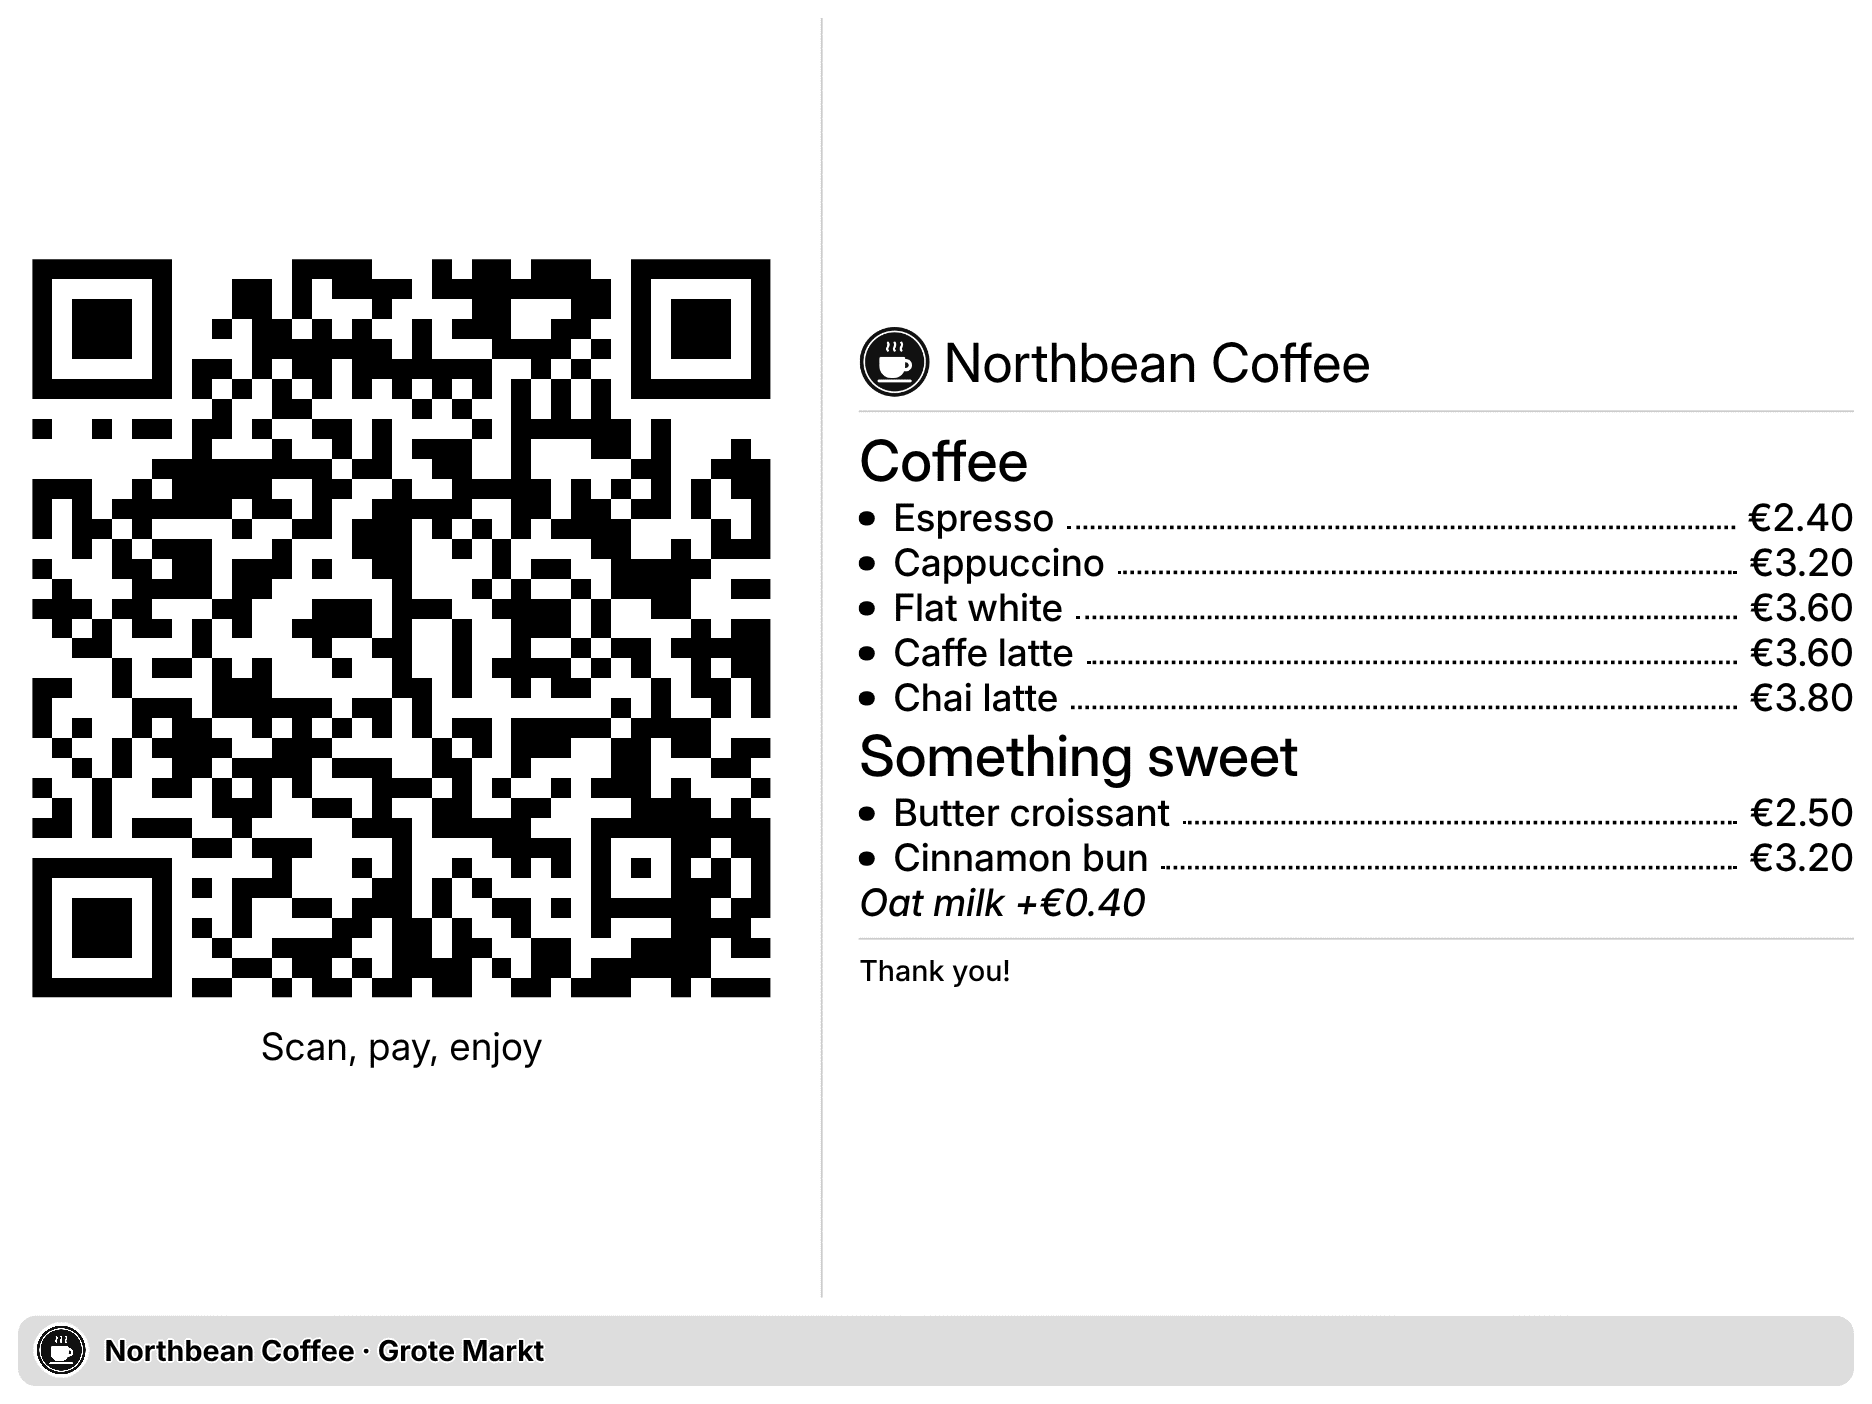
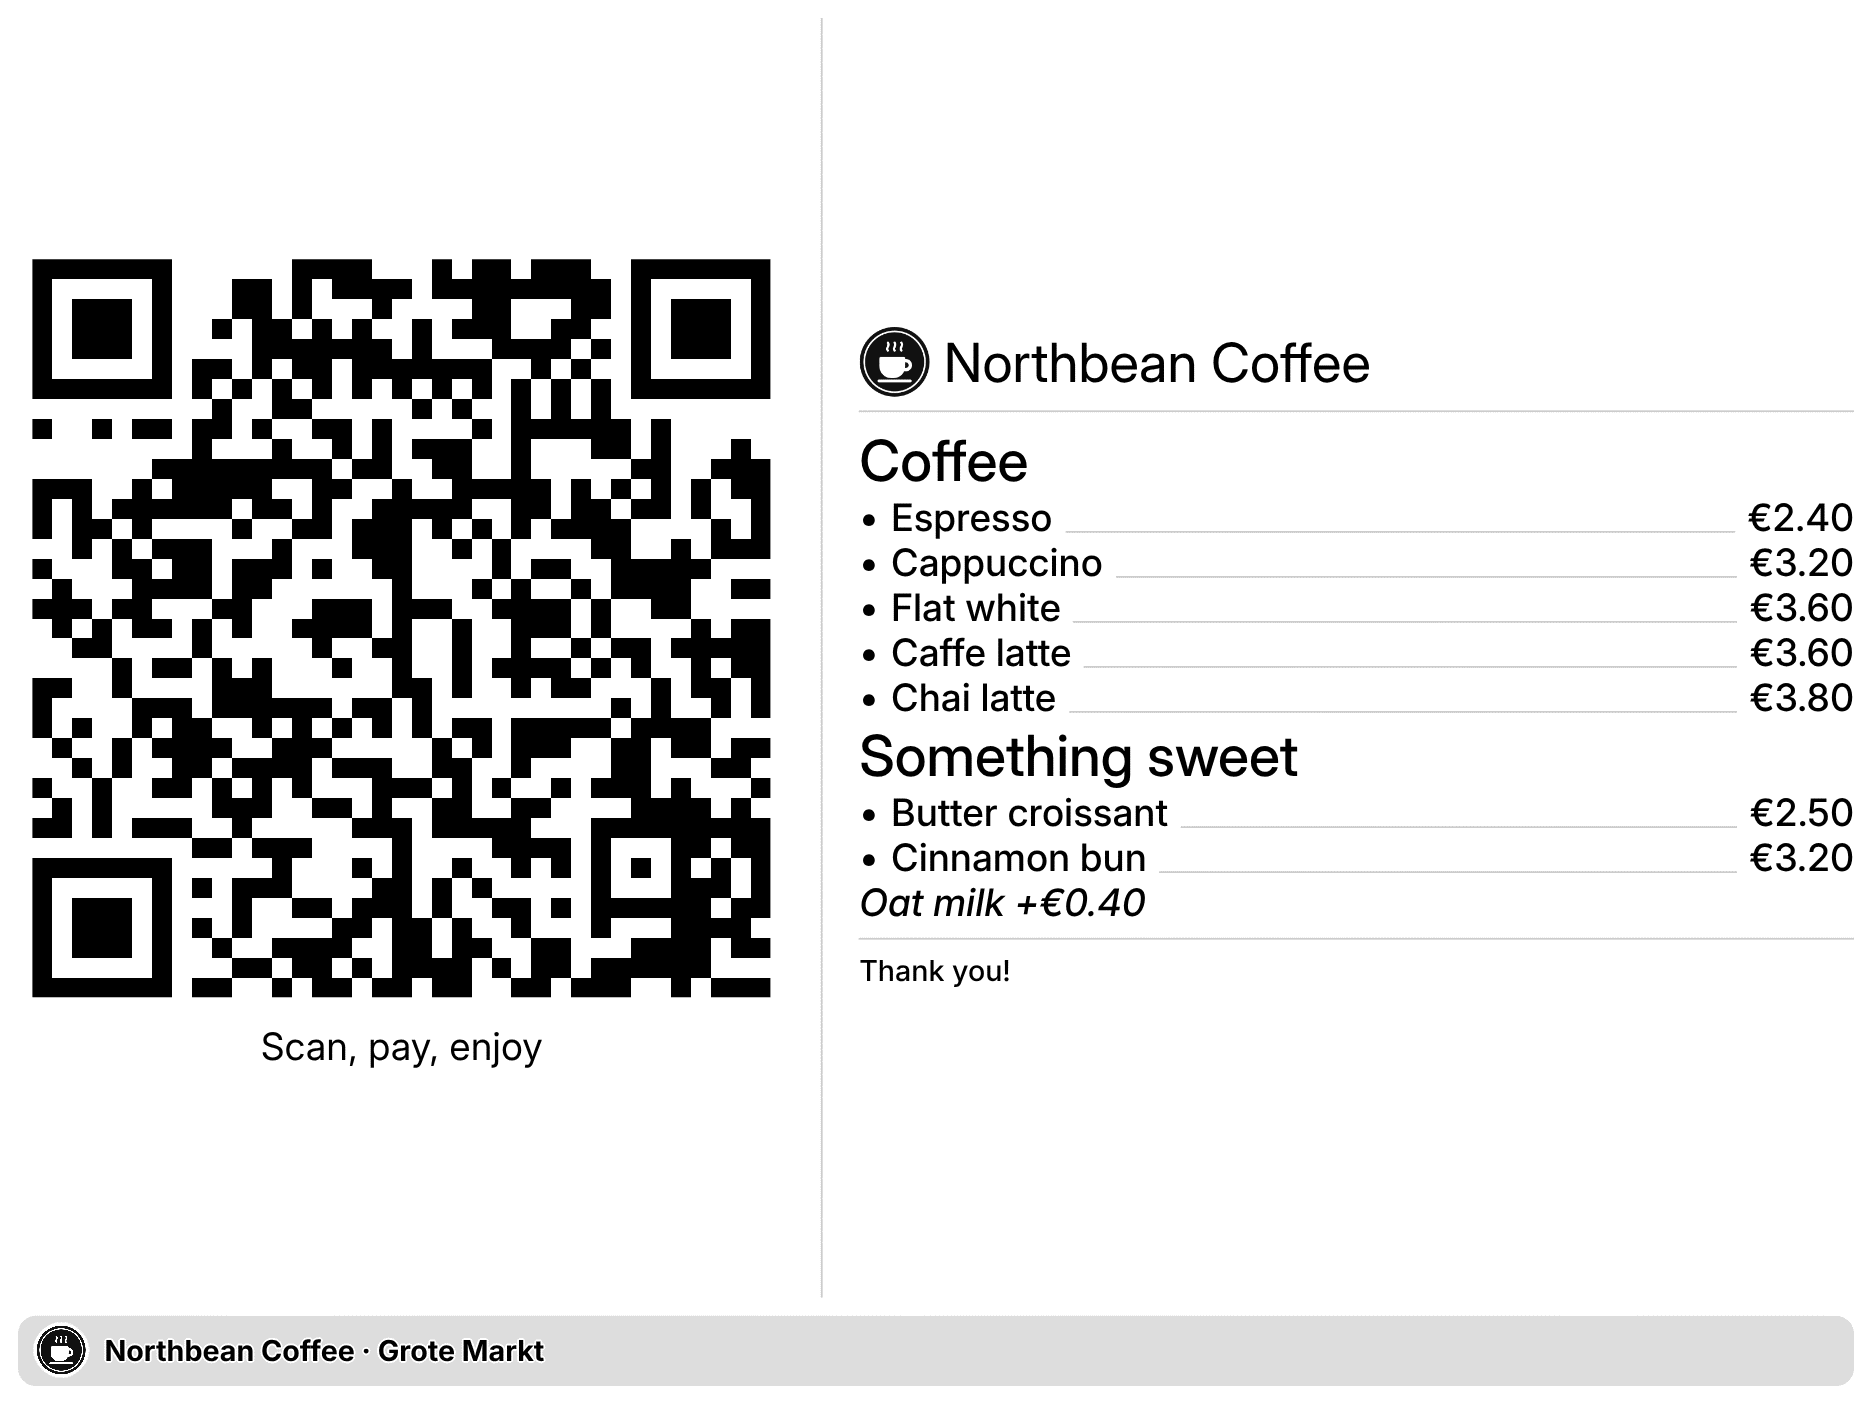
No inline styles: framework classes in the fit script
TRMNL's recipe linter (Chef) flags inline styles. List marks are now a
bullet or number with flex classes, the price leader is a framework
divider, titles step down through the title sizes (then cut with an
ellipsis), and the last block is cut by whole words instead of a CSS
line clamp. Field hint without a bare https://.

Claude-Session: https://claude.ai/code/session_015KWCEBPpm133rR4g2PPK7e

Changed region(s): [[0.4647, 0.3675, 0.9295, 0.5207], [0.4647, 0.5513, 0.9295, 0.6432]]

diff --git a/test/trmnl/plugin.spec.js b/test/trmnl/plugin.spec.js
@@ -38,7 +38,7 @@ async function checkScreen(screen, { content, view, payload }) {
     const cs = getComputedStyle(layout), l = layout.getBoundingClientRect();
     const zoom = l.width / layout.offsetWidth || 1;
     const right = l.right - parseFloat(cs.paddingRight) * zoom;
-    return Array.from(layout.querySelectorAll('.title, .label, [data-qr-body]'))
+    return Array.from(layout.querySelectorAll('.title, .label, [data-qr-fit], [data-qr-body]'))
       // past the layout edge, or wider than its own box (a word that does not fit spills out of it)
       .filter((t) => { const r = t.getBoundingClientRect(); return r.width > 0 && (r.right > right + 1 || t.scrollWidth > t.clientWidth + 1); })
       .map((t) => t.textContent.trim().slice(0, 30));
@@ -303,7 +303,14 @@ test('dividers between QR and text, under the title, above the footer, and for m
   let screen = await trmnl.render({ fields: BASE });
   await expect(screen.locator('[data-qr-layout] .divider:visible, [data-qr-layout] .divider--v:visible')).toHaveCount(3);
   screen = await trmnl.render({ fields: { ...BASE, body: '## Coffee\n\n- Espresso | €2.40\n\n---\n\n## Tea\n\n- Green tea | €2.20' } });
-  await expect(screen.locator('[data-qr-body] .divider')).toHaveCount(1);
+  await expect(screen.locator('[data-qr-body] .divider:not([data-qr-leader])')).toHaveCount(1);
+});
+
+test('a single word too long for a quarter view shrinks, then is cut', async ({ trmnl }) => {
+  const content = { ...BASE, title: 'Supercalifragilisticexpialidocious', body: '' };
+  const screen = await trmnl.render({ device: 'v2', view: 'quadrant', fields: content });
+  await checkScreen(screen, { content, view: 'quadrant', payload: JANE });
+  await expect(screen.locator('[data-qr-fit]').first()).toContainText('Supercali');
 });
 
 test('passes trmnlp lint', async ({ trmnl }) => {

diff --git a/README.md b/README.md
@@ -61,7 +61,7 @@ gem install trmnlp-test     # once; needs Docker
 trmnlp-test [-g filter]     # the tests in test/trmnl/, report in test/trmnl-report/
 ```
 
-The tests use [trmnlp-test](https://github.com/ExcuseMi/trmnlp-test): 114 renders on OG, TRMNL X, a small Kindle, portrait, dark mode, a color panel and both font sets, in every view. Each render must pick the expected layout, scan to exactly the expected payload, keep a quiet zone and QR modules of at least 2 px, and keep text inside the view and off the code. "Server variant" tests patch a copy of the template the way TRMNL differed from trmnlp: its server's `qr_code` svg (always `width`/`height` plus `max-width:100%`, so it never grows; trmnlp's has only a viewBox) and CR LF newlines in the web editor's preview. The flow is drawn in [test/testing.puml](test/testing.puml):
+The tests use [trmnlp-test](https://github.com/ExcuseMi/trmnlp-test): 115 renders on OG, TRMNL X, a small Kindle, portrait, dark mode, a color panel and both font sets, in every view. Each render must pick the expected layout, scan to exactly the expected payload, keep a quiet zone and QR modules of at least 2 px, and keep text inside the view and off the code. "Server variant" tests patch a copy of the template the way TRMNL differed from trmnlp: its server's `qr_code` svg (always `width`/`height` plus `max-width:100%`, so it never grows; trmnlp's has only a viewBox) and CR LF newlines in the web editor's preview. The flow is drawn in [test/testing.puml](test/testing.puml):
 
 ![How the plugin is tested](test/testing.png)
 
